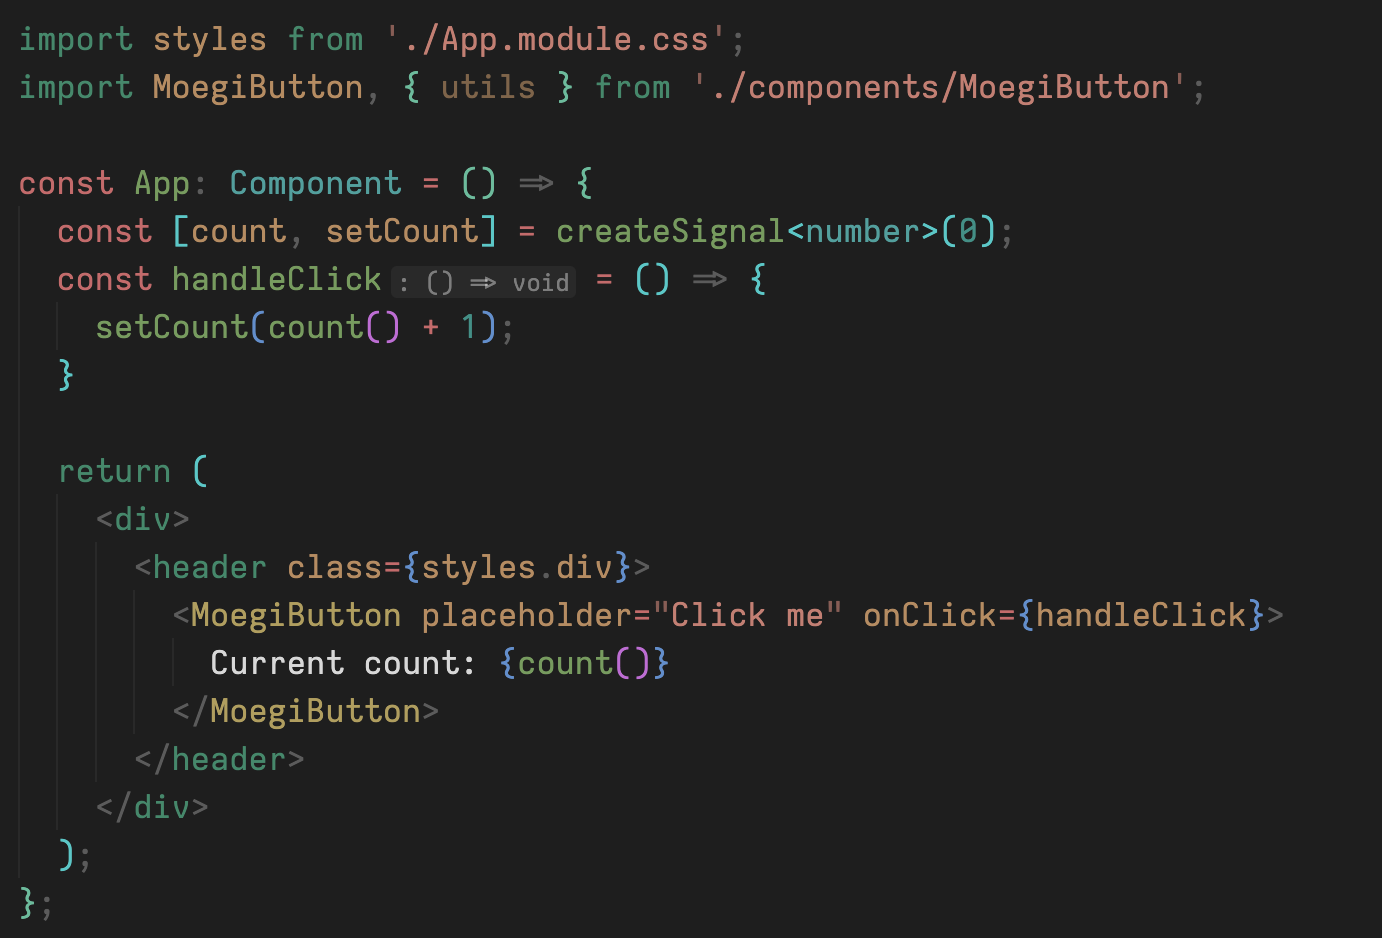
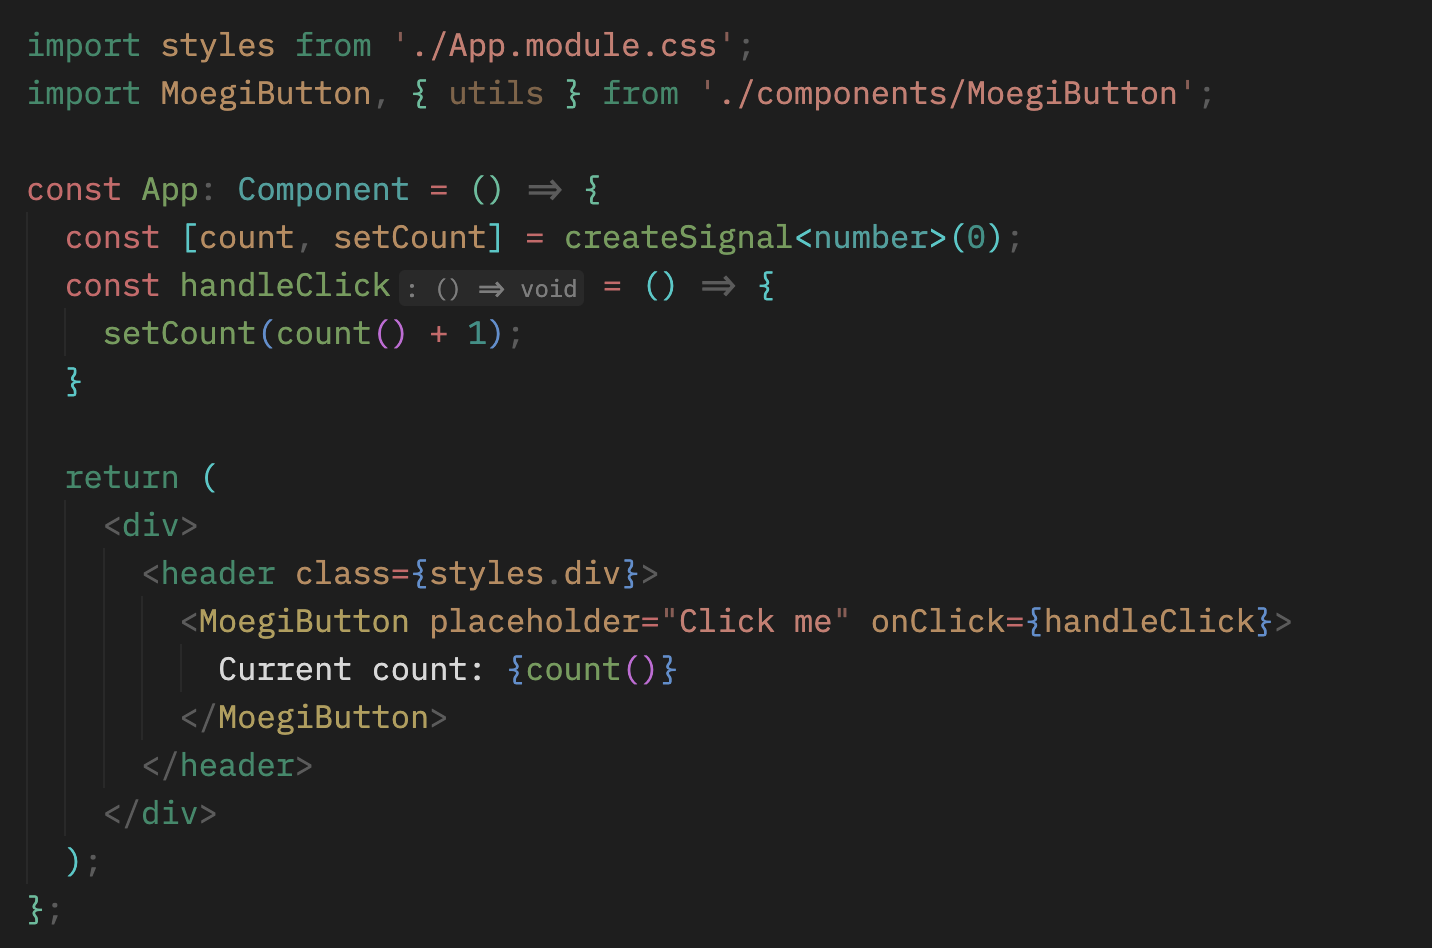
docs: update screenshots

diff --git a/README.md b/README.md
@@ -6,7 +6,7 @@
 
 ![Moegi Dark](./images/screenshot.png)
 
-> Font: [Zed Mono Extended](https://github.com/zed-industries/zed-fonts)
+> Font: [IBM Plex Mono](https://github.com/IBM/plex)
 
 ## Features
 
